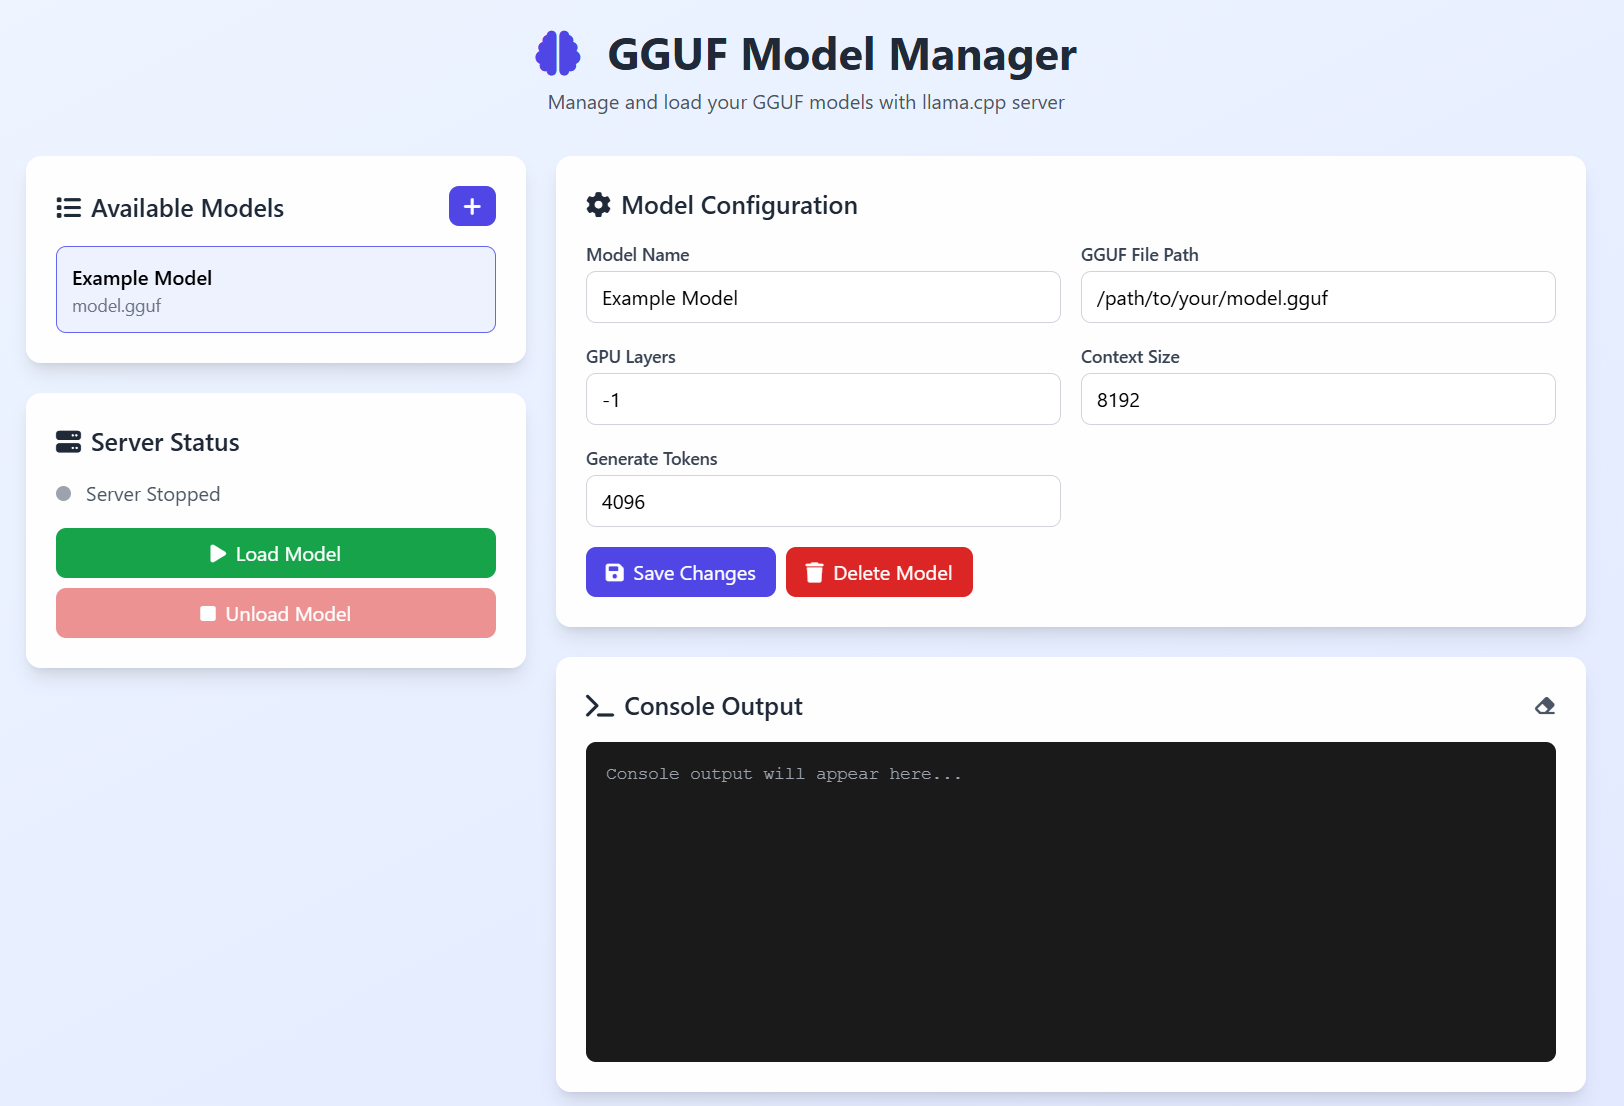
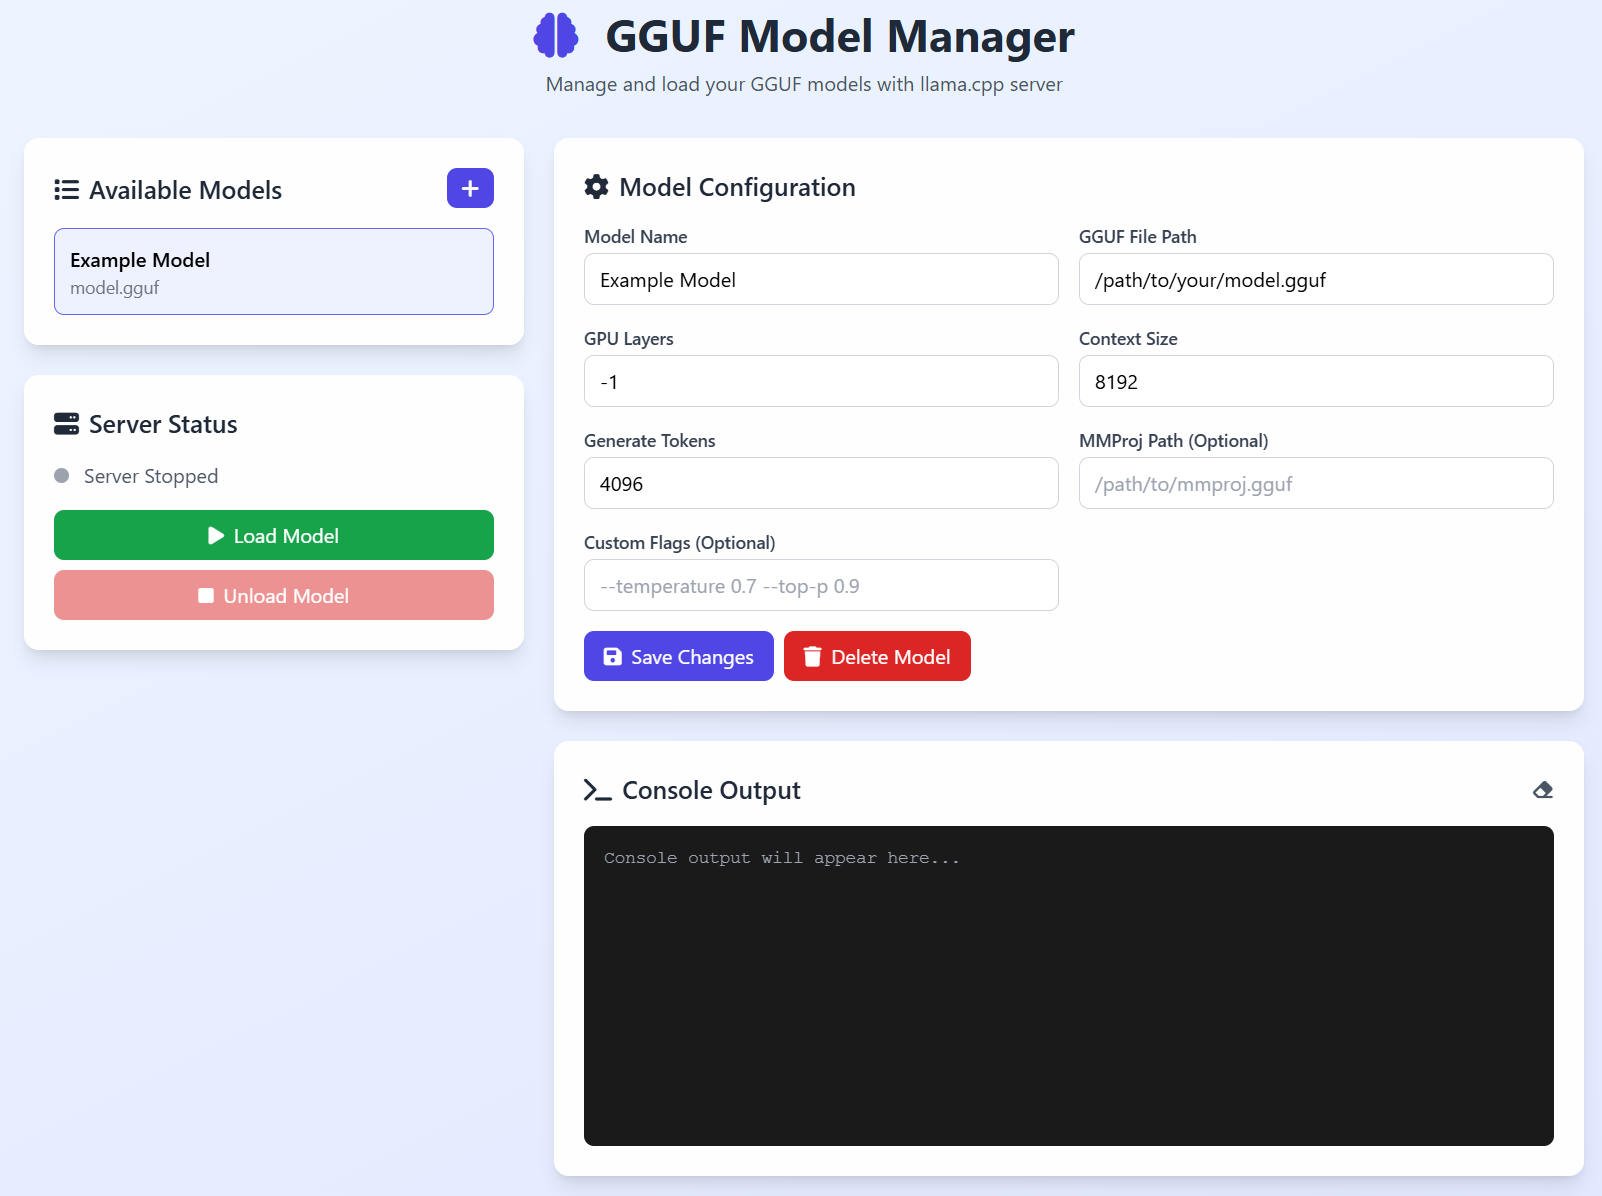
added mmproj and custom flags support

diff --git a/templates/index.html b/templates/index.html
@@ -12,7 +12,7 @@
     <!--<link rel="stylesheet" href="{{ url_for('static', filename='css/all.min.css') }}">
     <script src="{{ url_for('static', filename='js/tailwindcss-3-4-17-17.js') }}"></script>
     <script src="{{ url_for('static', filename='js/socket.io.js') }}"></script>-->
-    
+
     <style>
         @keyframes spin {
             to { transform: rotate(360deg); }
@@ -113,6 +113,14 @@
                                 <label class="block text-sm font-medium text-gray-700 mb-1">Generate Tokens</label>
                                 <input type="number" id="editGenTokens" class="w-full px-3 py-2 border border-gray-300 rounded-lg focus:ring-2 focus:ring-indigo-500">
                             </div>
+                            <div>
+                                <label class="block text-sm font-medium text-gray-700 mb-1">MMProj Path (Optional)</label>
+                                <input type="text" id="editMmproj" class="w-full px-3 py-2 border border-gray-300 rounded-lg focus:ring-2 focus:ring-indigo-500" placeholder="/path/to/mmproj.gguf">
+                            </div>
+                            <div>
+                                <label class="block text-sm font-medium text-gray-700 mb-1">Custom Flags (Optional)</label>
+                                <input type="text" id="editCustomFlags" class="w-full px-3 py-2 border border-gray-300 rounded-lg focus:ring-2 focus:ring-indigo-500" placeholder="--temperature 0.7 --top-p 0.9">
+                            </div>
                         </div>
                         <div class="flex space-x-2">
                             <button onclick="saveConfig()" class="bg-indigo-600 text-white px-4 py-2 rounded-lg hover:bg-indigo-700 transition">
@@ -174,6 +182,14 @@
                     <div>
                         <label class="block text-sm font-medium text-gray-700 mb-1">Tokens</label>
                         <input type="number" id="newGenTokens" value="4096" class="w-full px-3 py-2 border border-gray-300 rounded-lg focus:ring-2 focus:ring-indigo-500">
+                    </div>
+                    <div>
+                        <label class="block text-sm font-medium text-gray-700 mb-1">MMProj Path (Optional)</label>
+                        <input type="text" id="newMmproj" class="w-full px-3 py-2 border border-gray-300 rounded-lg focus:ring-2 focus:ring-indigo-500" placeholder="/path/to/mmproj.gguf">
+                    </div>
+                    <div>
+                        <label class="block text-sm font-medium text-gray-700 mb-1">Custom Flags (Optional)</label>
+                        <input type="text" id="newCustomFlags" class="w-full px-3 py-2 border border-gray-300 rounded-lg focus:ring-2 focus:ring-indigo-500" placeholder="--temperature 0.7 --top-p 0.9">
                     </div>
                 </div>
             </div>
@@ -255,6 +271,8 @@
                 document.getElementById('editGpuLayers').value = model.n_gpu_layers;
                 document.getElementById('editCtx').value = model.n_ctx;
                 document.getElementById('editGenTokens').value = model.n_generate_tokens;
+                document.getElementById('editMmproj').value = model.mmproj_path || '';
+                document.getElementById('editCustomFlags').value = model.custom_flags || '';
                 
                 document.getElementById('loadBtn').disabled = false;
             }
@@ -280,7 +298,9 @@
                         path_to_gguf_file: model.path_to_gguf_file,
                         n_gpu_layers: model.n_gpu_layers,
                         n_ctx: model.n_ctx,
-                        n_generate_tokens: model.n_generate_tokens
+                        n_generate_tokens: model.n_generate_tokens,
+                        mmproj_path: model.mmproj_path || '',
+                        custom_flags: model.custom_flags || ''
                     })
                 });
 
@@ -317,7 +337,9 @@
                 path_to_gguf_file: document.getElementById('editPath').value,
                 n_gpu_layers: parseInt(document.getElementById('editGpuLayers').value),
                 n_ctx: parseInt(document.getElementById('editCtx').value),
-                n_generate_tokens: parseInt(document.getElementById('editGenTokens').value)
+                n_generate_tokens: parseInt(document.getElementById('editGenTokens').value),
+                mmproj_path: document.getElementById('editMmproj').value,
+                custom_flags: document.getElementById('editCustomFlags').value
             };
 
             try {
@@ -383,6 +405,8 @@
             document.getElementById('newGpuLayers').value = '-1';
             document.getElementById('newCtx').value = '8192';
             document.getElementById('newGenTokens').value = '4096';
+            document.getElementById('newMmproj').value = '';
+            document.getElementById('newCustomFlags').value = '';
         }
 
         async function addModel() {
@@ -391,7 +415,9 @@
                 path_to_gguf_file: document.getElementById('newPath').value,
                 n_gpu_layers: parseInt(document.getElementById('newGpuLayers').value),
                 n_ctx: parseInt(document.getElementById('newCtx').value),
-                n_generate_tokens: parseInt(document.getElementById('newGenTokens').value)
+                n_generate_tokens: parseInt(document.getElementById('newGenTokens').value),
+                mmproj_path: document.getElementById('newMmproj').value,
+                custom_flags: document.getElementById('newCustomFlags').value
             };
 
             // Validate

diff --git a/app.py b/app.py
@@ -155,6 +155,22 @@ def load_model():
 	    #'--override-tensor', ".*ffn_.*_exps.*=CPU",
     ]
     
+    # Add mmproj if provided
+    mmproj_path = data.get('mmproj_path', '')
+    if mmproj_path and mmproj_path.strip():
+        cmd.extend(['--mmproj', mmproj_path])
+    
+    # Add custom flags if provided
+    custom_flags = data.get('custom_flags', '')
+    if custom_flags and custom_flags.strip():
+        # Split custom flags by spaces, respecting quoted strings
+        import shlex
+        try:
+            custom_flags_list = shlex.split(custom_flags)
+            cmd.extend(custom_flags_list)
+        except Exception as e:
+            return jsonify({'error': f'Invalid custom flags: {str(e)}'}), 400
+    
     try:
         # Start the server process
         server_process = subprocess.Popen(
@@ -216,7 +232,9 @@ if __name__ == '__main__':
                     "path_to_gguf_file": "/path/to/your/model.gguf",
                     "n_gpu_layers": -1,     #Auto calculate GPU layers by default
                     "n_ctx": 8192,
-                    "n_generate_tokens": 4096
+                    "n_generate_tokens": 4096,
+                    "mmproj_path": "",
+                    "custom_flags": ""
                 }
             ]
         }